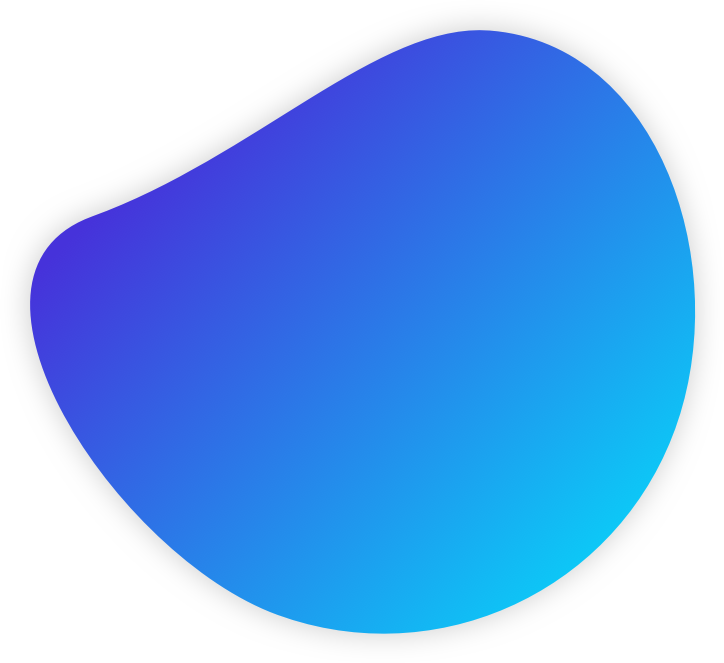
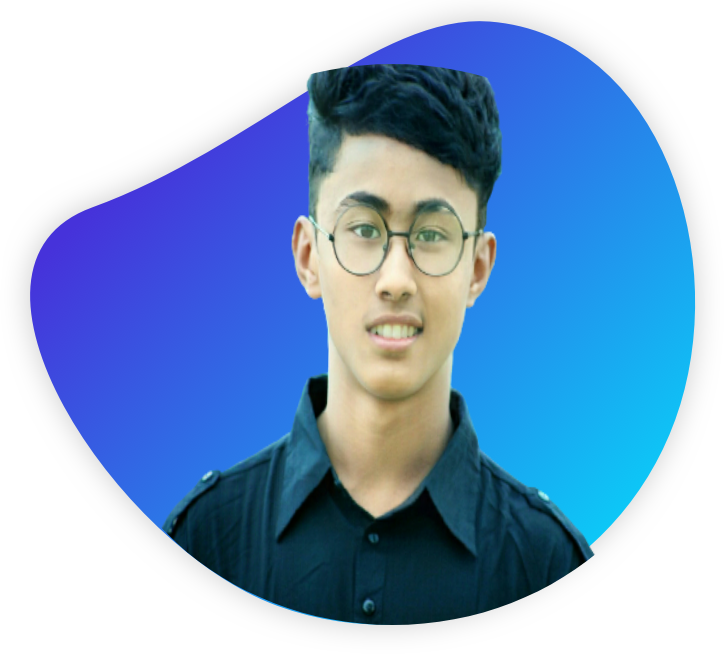
uplode coding

diff --git a/style.css b/style.css
@@ -146,14 +146,17 @@ a{
 .box-model{
     width:25%;
     margin: auto;
+    border: 1px solid #E2E2E2;
     border-radius:15px;
     background: #fff;
     padding: 10px 20px;
     transition: .5s;
     margin-top:100px;
+    margin-bottom:15%;
 }
 .box-model:hover{
-    background:#E2E2E2;
+    background: #E2E2E2;
+    box-shadow: 12px 10px 24px #d4d4d4 ,-14px 15px 24px #d4d4d4;
 }
 .width-jang{
     width: 50%;
@@ -161,4 +164,52 @@ a{
 }
 .depo-size{
   margin:auto;
+}
+.footer-section4{
+    margin-top:-8%;
+    margin-bottom:250px;
+}
+.h6-size{
+    font-size: 20px;
+    font-weight: initial;
+    margin-bottom:-40px;
+}
+.Alex-calia{
+    font-size: 50px;
+    margin-bottom: -10px;
+}
+.span-color{
+    color: #4F1ABD;
+}
+.button-aro{
+    margin-top: 12%;
+    position: relative;
+    left: 20%;
+}
+.resume{
+    color: #fff;
+    font-size: 20px;
+    border: 1px solid #4F1ABD;
+    background:#4F1ABD;
+    padding: 5px 30px;
+    border-radius: 20px;
+    transition:.5s;
+}
+.resume:hover{
+    border: 1px solid #000;
+    border-radius: 20px;
+    background: #fff;
+    color: #000;
+    box-shadow:-2px 2px 8px #391F82,2px -2px 8px #391F82;
+}
+.fontend-peragragh{
+    font-size: 23px;
+    margin-bottom: 30px;
+}
+.resume1{
+    padding: 15px;
+    font-size: 21px;
+}
+.resume1:hover{
+    color:#4F1A;
 }

diff --git a/index.html b/index.html
@@ -93,5 +93,22 @@
           </div>
      </div>
     </section>
+    <section class="footer-section4">
+        <div class="conteinar">
+            <div class="half-width">
+                <img src="img/person-5.png" alt="">
+            </div>
+
+            <div class="half-width button-aro">
+                <h6 class="h6-size">HI I'M HEREME!</h6>
+                <h1 class="Alex-calia"><span class="span-color">ALEX</span> CALIA</h1>
+                <p class="fontend-peragragh">A <span class="span-color">Font-End Web Devoloper</span> Positionated about creating interactive appication and experienec in the web</p>
+                <a class="resume" href="">Resume</a>
+                <a class="resume1" href=""><i class="fab fa-github"></i></a>
+                <a class="resume1" href=""><i class="fab fa-linkedin-in"></i></a>
+                <a class="resume1" href=""><i class="fab fa-twitter"></i></a>
+            </div>
+        </div>
+    </section>
 </body>
 </html>
